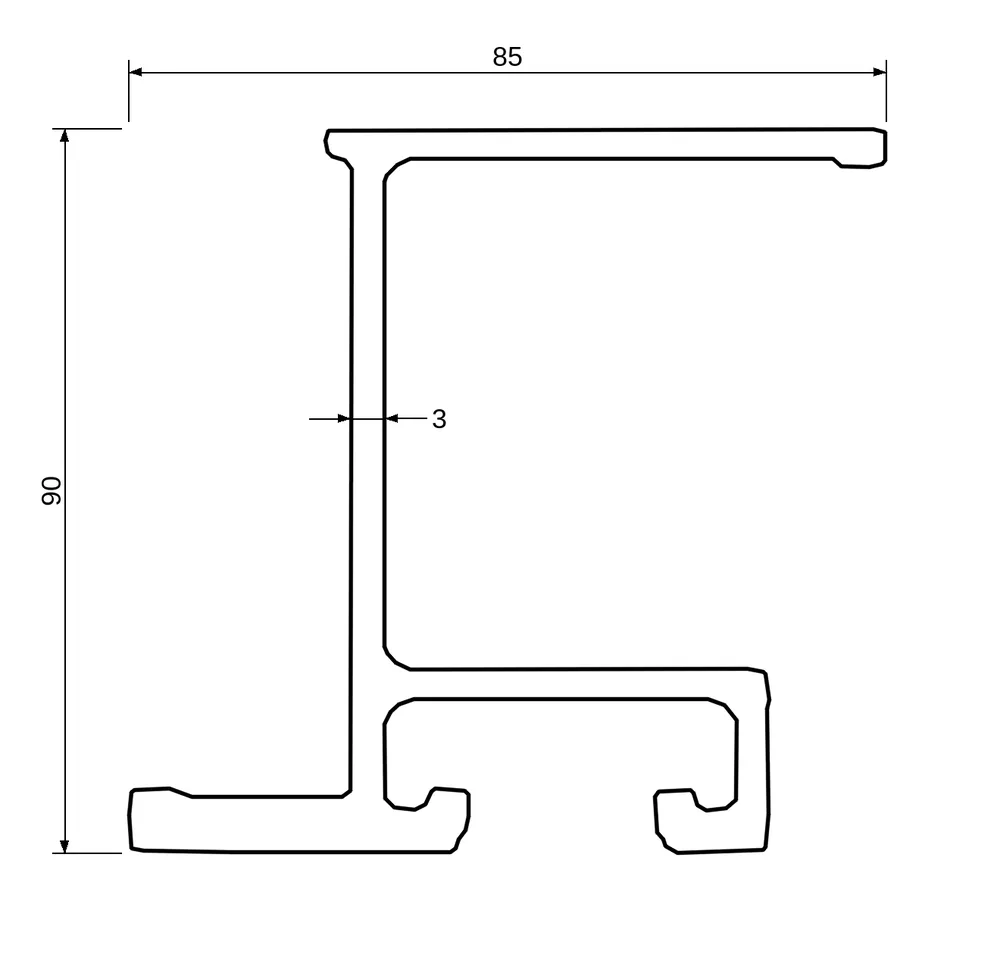
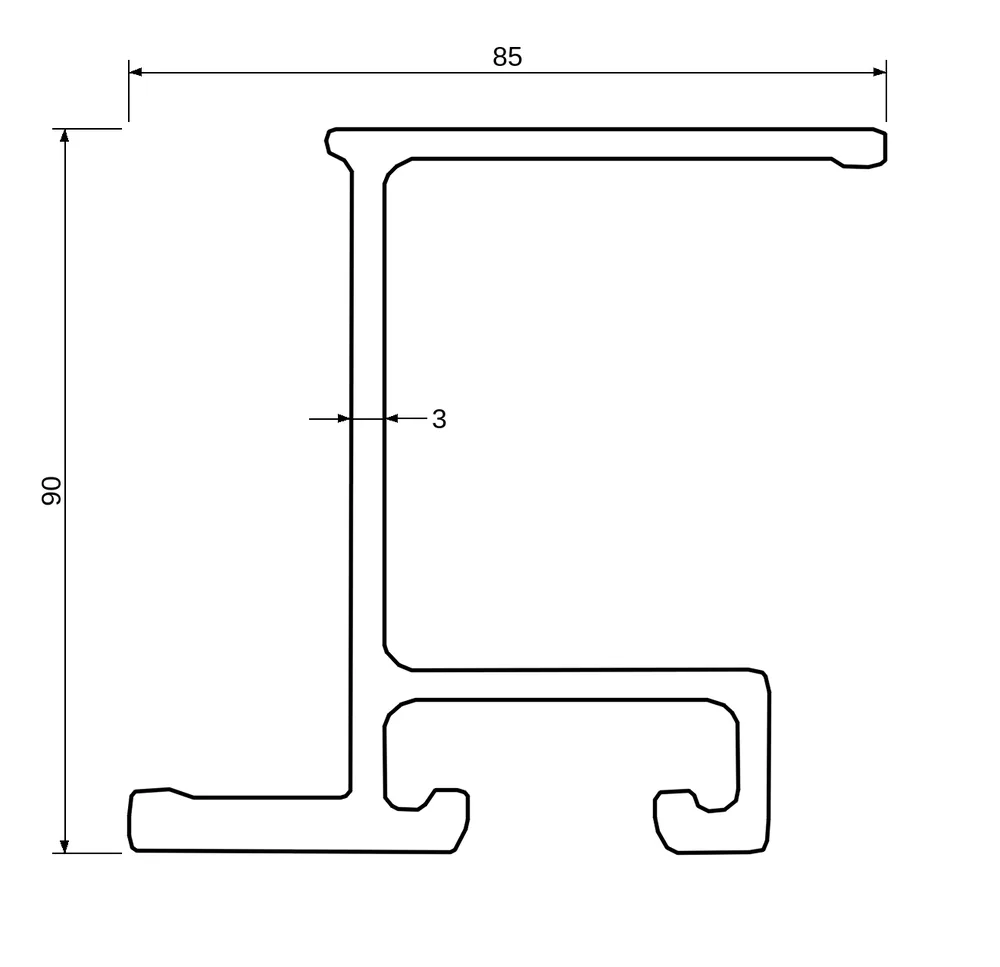
Kitöltött fekete rajz (a 227046 mintájára) második képként: 206941, 2018652, 6612225, 6612226, 2073902
Claude-Session: https://claude.ai/code/session_01GqcGcrqDWYvNfyrVUkczEM

diff --git a/scripts/termekadatok/tiszta_rajzok.py b/scripts/termekadatok/tiszta_rajzok.py
@@ -55,7 +55,7 @@ DECIN = {
         ("clear", [(603.3, 430), (607, 430), (607, 444), (603.3, 444)]),
         ("fill", [(556, 432.9), (597.4, 432.9), (603.2, 436.5), (603.2, 441.8), (595.6, 441.8), (594.2, 439.6), (556, 439.6)]),
     ], "40", "126,5", "3", ("h", 0.72), 0.12, 5),
-    "2073902-i-90-csavarozhato-kereszttarto": ("10902", 90, 3, [], "85", "90", "3", ("h", 0.40), None, 5, 4),
+    "2073902-i-90-csavarozhato-kereszttarto": ("10902", 90, 3, [], "85", "90", "3", ("h", 0.40), None, 5, 6),
 }
 
 
@@ -195,7 +195,7 @@ def decin_mask(code, cav_px, r, edits=(), k=None, smooth=0):
     m = lab == 1 + int(np.argmax(st[1:, 4]))
     n, lab, st, _ = cv2.connectedComponentsWithStats((~m).astype(np.uint8), connectivity=4)
     for i in range(1, n):  # apró lyukak (szkennelési pöttyök) a profil anyagában
-        if st[i, 4] < 400:
+        if st[i, 4] < 3000:
             m[lab == i] = True
     ys, xs = np.where(m)
     return m[ys.min():ys.max() + 1, xs.min():xs.max() + 1]
@@ -414,14 +414,17 @@ def main():
         img, px, k, _, wpx = render_mask(m.copy(), wt, ht, tt, where, wtop=opt[0] if opt else None, outline=True)
         print(slug, "mért fal:", round(px / (wpx * k) * float(wt.replace(",", ".")), 2), "mm")
         url = save_image(img, slug, "meretrajz")
-        data[slug]["images"] = [url]  # csak a Decin-rajz: minden korábbi kép (régi rajzok, 3D) törölve
+        fill, *_ = render_mask(m.copy(), wt, ht, tt, where, wtop=opt[0] if opt else None)  # kitöltött, mint a 227046
+        # csak a Decin-rajz (vonalas + kitöltött): minden korábbi kép (régi rajzok, 3D) törölve
+        data[slug]["images"] = [url, save_image(fill, slug, "kitoltott")]
         data[slug].setdefault("specs", {})["Falvastagság"] = f"{tt} mm"
     for slug, (fn, wt, ht, tt, where, *vd) in VECTOR.items():
         if slug not in data:
             continue
-        img, *_ = render_mask(vector_mask(globals()[fn]()), wt, ht, tt, where, outline=True, eps=0.5, vdims=vd[0] if vd else ())
-        url = save_image(img, slug, "meretrajz")
-        data[slug]["images"] = [url]
+        m = vector_mask(globals()[fn]())
+        img, *_ = render_mask(m.copy(), wt, ht, tt, where, outline=True, eps=0.5, vdims=vd[0] if vd else ())
+        fill, *_ = render_mask(m.copy(), wt, ht, tt, where, eps=0.5, vdims=vd[0] if vd else ())  # kitöltött, mint a 227046
+        data[slug]["images"] = [save_image(img, slug, "meretrajz"), save_image(fill, slug, "kitoltott")]
         data[slug].setdefault("specs", {})["Falvastagság"] = f"{tt} mm"
         print(slug, "vektoros")
     for slug, (src, wt, ht, tt, where) in BLUE.items():
